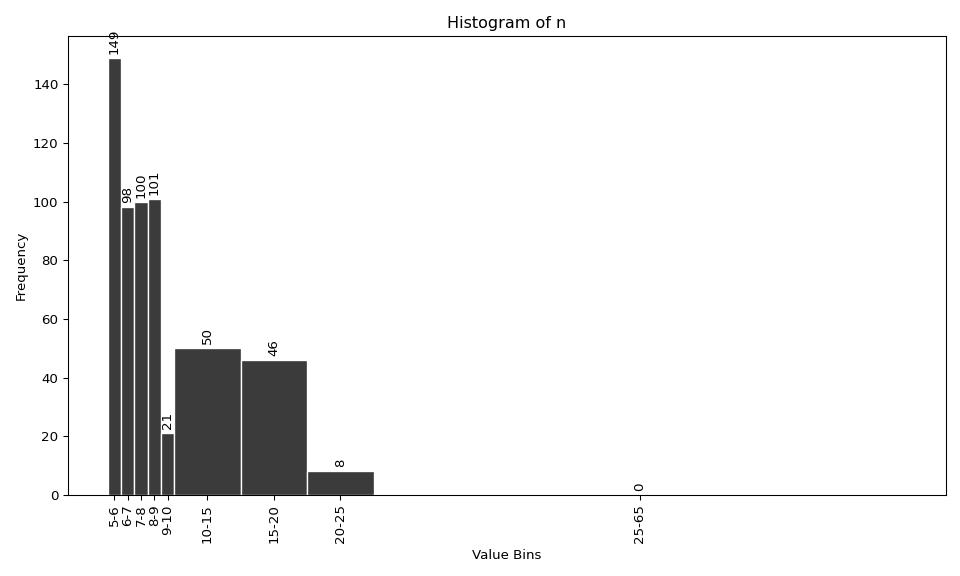
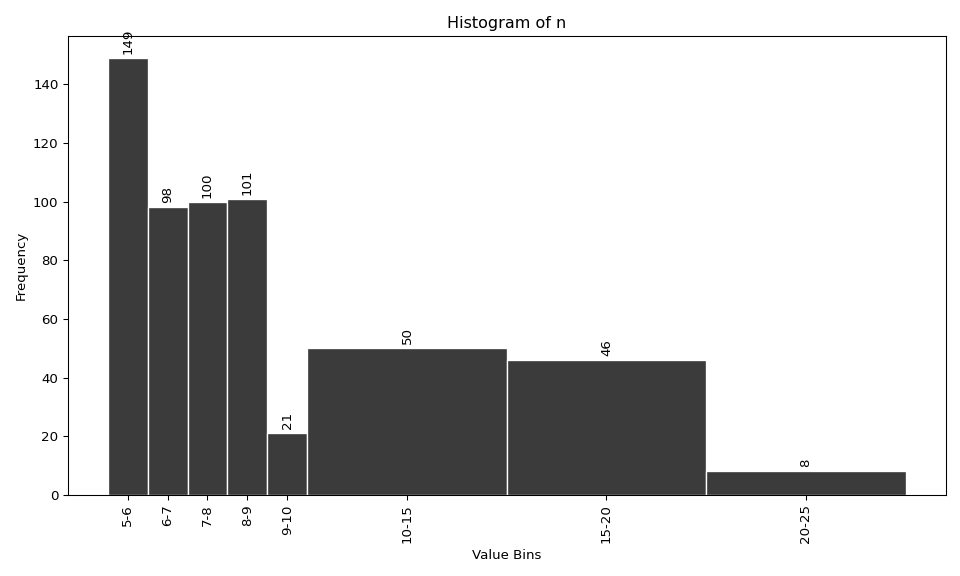
General update.

Changed region(s): [[0.0938, 0.0625, 0.9688, 0.9375], [0.3438, 0.875, 0.375, 0.9375]]

diff --git a/tool/PMP/paper.py b/tool/PMP/paper.py
@@ -45,7 +45,8 @@ automatic_tag_not_in = ['(No data)'] # Tag to exclude. Keep in mind some convent
 #automatic_tag_not_in = ['Convencional', '(No data)'] # Tag to exclude. Keep in mind some conventional stations are now automatic
 exclude_stations = True
 stations_to_exclude = ['25020230', '25020240', '25020250', '25020260', '25020280', '25020690', '25020920', '25021240', '25021650', '25025250', '28010070', '28020080', '28020150', '28020230', '28020310', '28020420', '28020440', '28020460', '28020600', '28025070', '28025080', '28025090', '28035010', '28035040', '28040310', '28040350']
-histogram_custom_bins_n = [5, 6, 7, 8, 9, 10, 15, 20, 25, 65] # Bins for n years values histogram per station evaluated
+histogram_custom_bins_n = [5, 6, 7, 8, 9, 10, 15, 20, 25] # Bins for n years values histogram per station evaluated
+#histogram_custom_bins_n = [5, 6, 7, 8, 9, 10, 15, 20, 25, 65] # Bins for n years values histogram per station evaluated
 
 
 # Header & join best fit .csv results files and read and filter the CNE catalog
